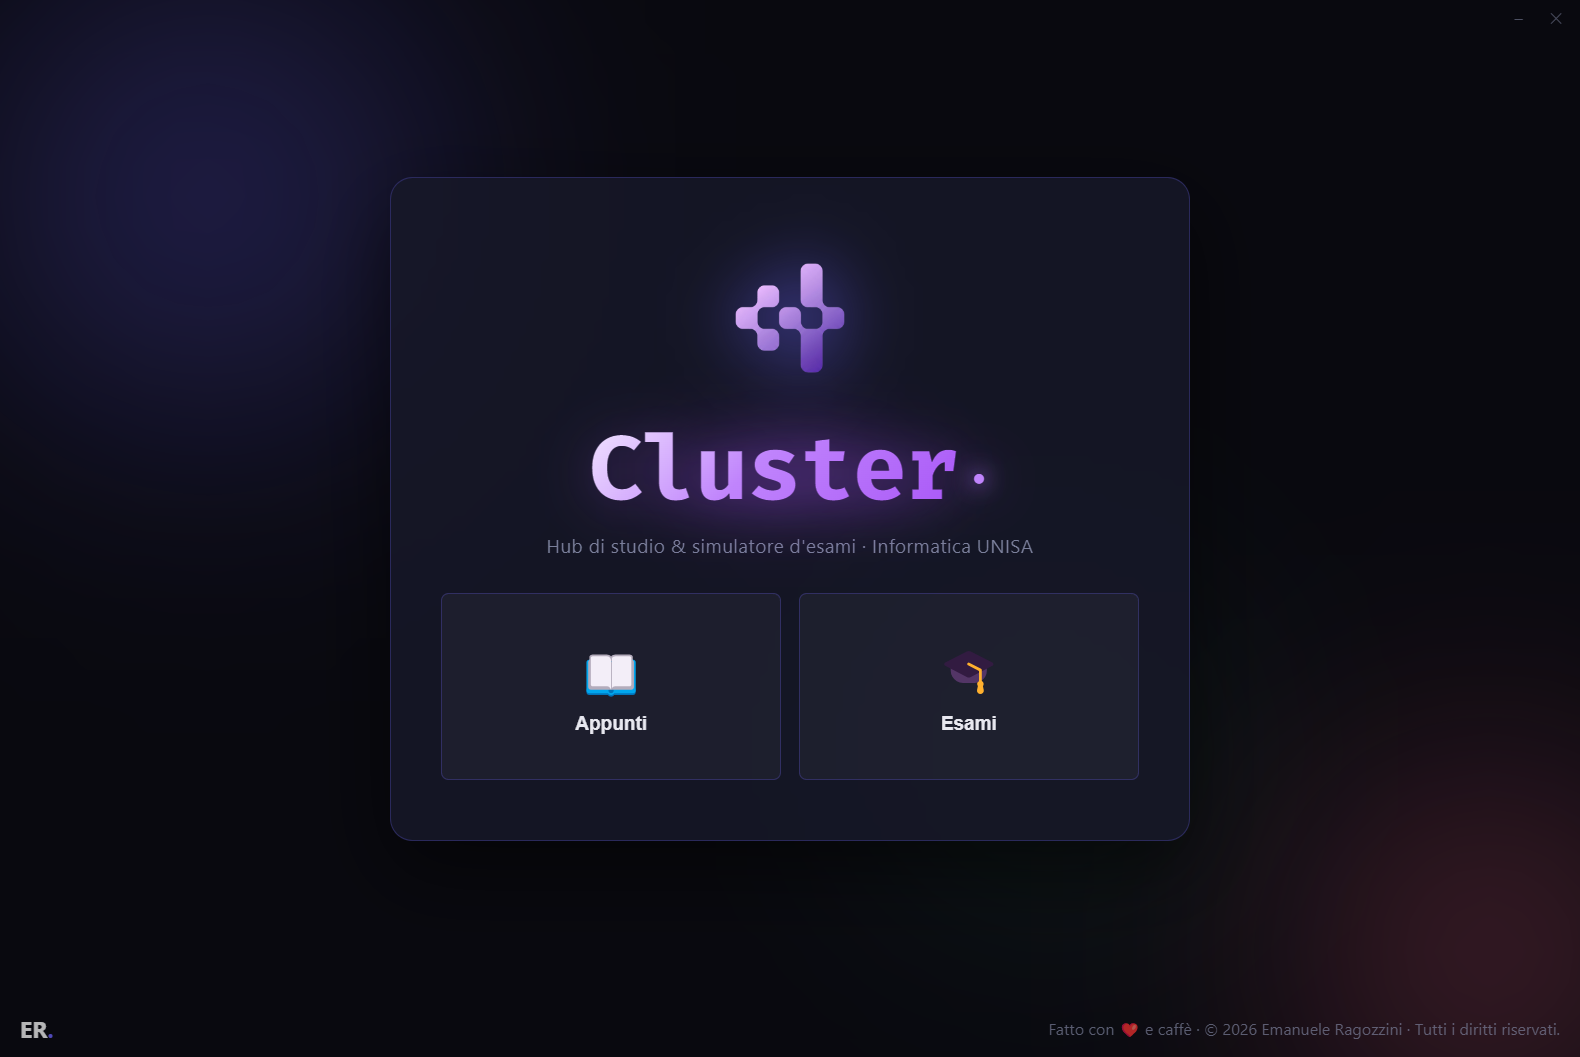
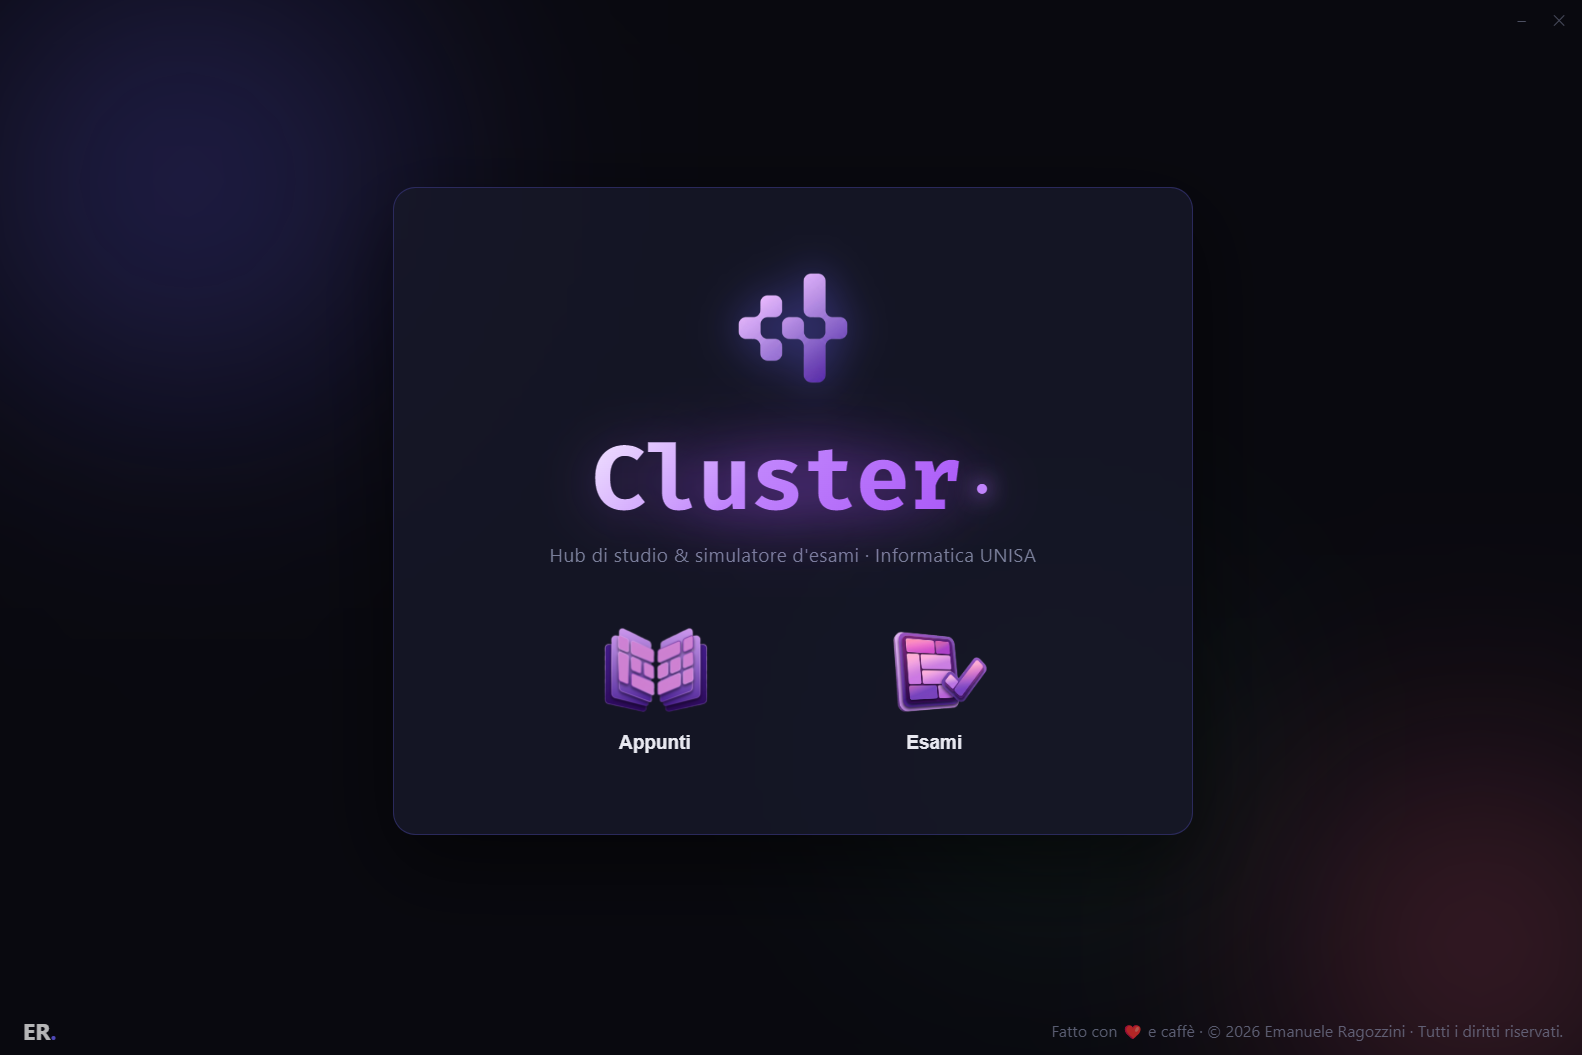
[UI] Cambio icone homescreen e cambio readme

diff --git a/renderer/src/styles/global.css b/renderer/src/styles/global.css
@@ -193,6 +193,64 @@ main {
   line-height: 1.4;
 }
 
+/* ── Home navigation buttons (Appunti / Esami) ───────────────────────────── */
+.anno-btn.home-nav-btn {
+  background: transparent;
+  border: none;
+  height: auto;
+  width: fit-content;
+  padding: 14px 24px;
+  margin: 0 35px;
+  position: relative;
+  isolation: isolate;
+  transition: transform 0.22s cubic-bezier(0.16, 1, 0.3, 1);
+}
+
+/* ponytail: gradient border via ::before, static, no animation */
+.anno-btn.home-nav-btn::before {
+  content: '';
+  position: absolute;
+  inset: -1px;
+  border-radius: inherit;
+  padding: 1px;
+  background: linear-gradient(135deg, #a855f7, #6366f1, #a855f7);
+  -webkit-mask:
+    linear-gradient(#fff 0 0) content-box,
+    linear-gradient(#fff 0 0);
+  mask:
+    linear-gradient(#fff 0 0) content-box,
+    linear-gradient(#fff 0 0);
+  -webkit-mask-composite: xor;
+  mask-composite: exclude;
+  opacity: 0;
+  transition: opacity 0.35s ease;
+}
+
+.anno-btn.home-nav-btn:hover {
+  background: transparent;
+  transform: translateY(-2px);
+}
+
+.anno-btn.home-nav-btn:hover::before {
+  opacity: 1;
+}
+
+.anno-btn.home-nav-btn img {
+  filter: none;
+  transition: filter 0.28s cubic-bezier(0.16, 1, 0.3, 1),
+    transform 0.25s cubic-bezier(0.16, 1, 0.3, 1);
+}
+
+.anno-btn.home-nav-btn:hover img {
+  filter: drop-shadow(0 0 12px rgba(192, 132, 252, 0.55)) drop-shadow(0 4px 8px rgba(108, 99, 255, 0.3));
+  transform: translateY(-3px) scale(1.04);
+}
+
+.anno-btn.home-nav-btn:hover .anno-nome {
+  color: #e2d9f3;
+}
+
+
 
 /* ── Back button ─────────────────────────────────────────────────────────── */
 .btn--back {

diff --git a/renderer/src/screens/Home.jsx b/renderer/src/screens/Home.jsx
@@ -1,5 +1,7 @@
 import React from 'react';
 import logoSrc from '../assets/logoIUE.png';
+import studyIcon from '../assets/study.png';
+import examsIcon from '../assets/exams.png';
 
 export function Home({ onNavigate }) {
   return (
@@ -19,12 +21,12 @@ export function Home({ onNavigate }) {
           <p className="home-tagline">Hub di studio & simulatore d'esami · Informatica UNISA</p>
 
           <div id="anni-list">
-            <button className="anno-btn" onClick={() => onNavigate('study')}>
-              <span style={{ fontSize: '2.5rem', marginBottom: '8px' }}>📖</span>
+            <button className="anno-btn home-nav-btn" onClick={() => onNavigate('study')}>
+              <img src={studyIcon} alt="Appunti" style={{ height: '5rem', marginBottom: '8px', objectFit: 'contain' }} />
               <span className="anno-nome">Appunti</span>
             </button>
-            <button className="anno-btn" onClick={() => onNavigate('esami')}>
-              <span style={{ fontSize: '2.5rem', marginBottom: '8px' }}>🎓</span>
+            <button className="anno-btn home-nav-btn" onClick={() => onNavigate('esami')}>
+              <img src={examsIcon} alt="Esami" style={{ height: '5rem', marginBottom: '8px', objectFit: 'contain' }} />
               <span className="anno-nome">Esami</span>
             </button>
           </div>

diff --git a/README.md b/README.md
@@ -31,15 +31,22 @@ Fatto con ❤ e caffè. © 2026 Tutti i diritti riservati.
 ## ✨ Funzionalità Principali
 
 ### 📖 Sezione Appunti & Studio
-- **Viewer Markdown Integrato** — Consulta tutti gli appunti e le dispense organizzate per anno e materia direttamente nell'app.
-- **Navigazione Laterale** — Struttura ad albero intuitiva per passare da un argomento all'altro senza distrazioni.
+- **Viewer Markdown Integrato** — Consulta appunti e dispense organizzate per anno e materia direttamente nell'app, con rendering completo.
+- **Rendering KaTeX** — Le formule matematiche LaTeX (inline `$...$` e blocco `$$...$$`) vengono renderizzate tipograficamente in tempo reale.
+- **Rendering Mermaid** — I blocchi di codice `mermaid` nei file Markdown vengono renderizzati come diagrammi e grafici interattivi.
+- **Navigazione Laterale** — Struttura ad albero con ricerca per filtrare rapidamente le note per nome.
+- **Cerca nel documento (Ctrl+F)** — Barra di ricerca fluttuante attivabile con `Ctrl+F` che evidenzia tutte le occorrenze del testo nel documento aperto e permette la navigazione tra i risultati.
+- **Indice Navigabile** — I link dell'indice presenti nei documenti Markdown eseguono uno scroll fluido alla sezione corrispondente all'interno del viewer.
+- **Scrollbar Indipendenti** — La sidebar e il contenuto della nota hanno scroll separati e indipendenti.
 
 ### 📝 Quiz e Simulatore d'Esame
-- **Quiz di Programmazione C Integrati** — Scrivi, compila ed esegui codice C in tempo reale grazie all'integrazione con Monaco Editor (VS Code) e GCC nativo.
-- **Esercizi Interattivi Canvas (ADE)** — Risolvi quesiti di Architettura degli Elaboratori manipolando graficamente schemi di circuiti e datapath SVG con drag & drop.
-- **Quiz a Scelta Multipla e Risposta Aperta** — Con sistema di valutazione adattivo e fuzzy matching per risposte scritte.
-- **Valutazione e Test Cases** — Verifica istantanea con analisi dell'output atteso vs ottenuto.
-- **Navigazione Flessibile** — Salta le domande difficili, modifica le risposte prima di consegnare e monitora il progresso con la barra di avanzamento.
+- **Quiz a Scelta Multipla** — Modalità esame con selezione randomizzata delle domande, navigazione libera tra le domande e valutazione finale alla consegna.
+- **Quiz a Risposta Aperta** — Con sistema di valutazione adattivo e fuzzy matching per confrontare le risposte scritte.
+- **Quiz di Programmazione C** — Scrivi, compila ed esegui codice C in tempo reale grazie all'integrazione con Monaco Editor (stesso motore di VS Code) e compilatore GCC nativo.
+- **Domande Matematiche** — Tipologia dedicata con rendering KaTeX per quesiti con formule e notazione matematica.
+- **Esercizi Interattivi Canvas** — Risolvi quesiti di Architettura degli Elaboratori manipolando graficamente schemi di circuiti e datapath SVG con drag & drop.
+- **Navigazione Flessibile** — Salta le domande, modifica le risposte prima di consegnare e monitora il progresso con la barra di avanzamento.
+- **Valutazione Finale** — Schermata risultato con punteggio, riepilogo delle risposte corrette/errate e possibilità di rivedere ogni risposta.
 
 ### 📊 Dashboard & Statistiche
 - **Media Voti Calcolata** — Monitora la tua media espressa in trentesimi in tempo reale.
@@ -48,21 +55,8 @@ Fatto con ❤ e caffè. © 2026 Tutti i diritti riservati.
 - **Reset Dati** — Ripristina lo storico in qualsiasi momento con un semplice click.
 
 ### 🎨 Design & Esperienza Utente
-- **Estetica Dark Glassmorphism** — Interfaccia minimale e moderna con trasparenze, sfumature viola e animazioni ad alte prestazioni.
+- **Estetica Dark Glassmorphism** — Interfaccia moderna con trasparenze, sfumature viola, bordi gradienti animati e micro-animazioni ad alte prestazioni.
 - **Navigazione Nativa** — Breadcrumb dinamico per spostarsi facilmente tra Home, Esami, Appunti e Storico.
-
----
-
-## 📚 Materie & Quiz Inclusi
-
-| Materia | Tipo Contenuto | File / Cartella |
-|---|---|---|
-| **Programmazione 1 (P1)** | Codice C (Facile, Medio, Difficile) | `Quizzes/Primo anno/` |
-| **Architettura degli Elaboratori (ADE)** | Esercizi Canvas & Datapath | `Quizzes/Primo anno/` |
-| **Programmazione e Strutture Dati (PSD)** | Quiz & Teoria | `Quizzes/Secondo anno/PSD.json` |
-| **Ingegneria del Software (IS)** | Quiz a Scelta Multipla | `Quizzes/Secondo anno/IS.json` |
-| **Tecnologie Software per il Web (TSW)** | Quiz & Codice Web | `Quizzes/Secondo anno/TSW.json` |
-| **Inglese B2** | Quiz a Scelta Multipla | `Quizzes/Terzo anno/Inglese_B2.json` |
 
 ---
 
@@ -122,15 +116,15 @@ Cluster/
 ├── preload.cjs             # Bridge IPC sicuro Electron-React
 ├── package.json
 ├── vite.config.js          # Configurazione Vite per il bundler React
-├── Quizzes/                # Banca dati quiz divisi per anno e materia
+├── Quizzes/                # Banca dati quiz divisi per anno e materia (.json)
 ├── Notes/                  # Appunti e dispense in formato Markdown
 ├── design/                 # Screenshot e risorse grafiche di presentazione
 └── renderer/               # Frontend React
     ├── index.html
     └── src/
-        ├── assets/         # Risorse statiche dell'interfaccia (loghi, icone)
-        ├── components/     # Componenti UI (Header, HUD, domande quiz)
-        ├── screens/        # Schermate (Home, Esami, Study, Stats, Result, Quiz)
+        ├── assets/         # Risorse statiche (loghi, icone)
+        ├── components/     # Componenti UI (Header, HUD, tipi di domanda)
+        ├── screens/        # Schermate (Home, Esami, Study, Stats, Result, Quiz, QuizList)
         ├── styles/         # Fogli di stile (global.css, canvas-quiz.css)
         └── utils/          # Helper e funzioni di supporto
 ```
@@ -175,6 +169,7 @@ Per aggiungere una nuova materia o un nuovo test, inserisci un file `.json` nell
 - **React 19 + Vite** — Interfaccia utente dinamica ad alte prestazioni
 - **Monaco Editor** — Editor di codice integrato (stesso motore di VS Code)
 - **GCC** — Compilazione ed esecuzione nativa del codice C via IPC
-- **Marked** — Parsing dinamico degli appunti Markdown
+- **Marked** — Parsing dinamico degli appunti Markdown con renderer personalizzato
+- **KaTeX** — Rendering tipografico di formule matematiche LaTeX
+- **Mermaid** — Rendering di diagrammi e grafi da blocchi Markdown
 - **CSS Vanilla & Glassmorphism** — Stile custom responsive e performante senza dipendenze grafiche esterne
-
